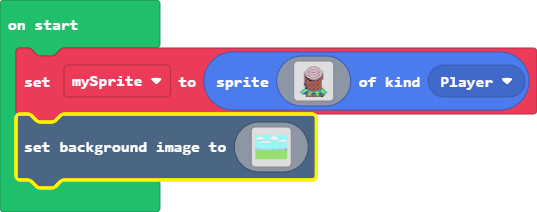
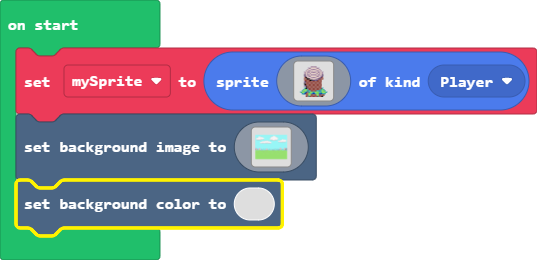
Added background color

diff --git a/main.ts b/main.ts
@@ -146,3 +146,4 @@ scene.setBackgroundImage(img`
     7777777777777777777777777777777777777777777777777777777777777777777777777777777777777777777777777777777777777777777777777777777777777777777777777777777777777777
     7777777777777777777777777777777777777777777777777777777777777777777777777777777777777777777777777777777777777777777777777777777777777777777777777777777777777777
     `)
+scene.setBackgroundColor(0)
